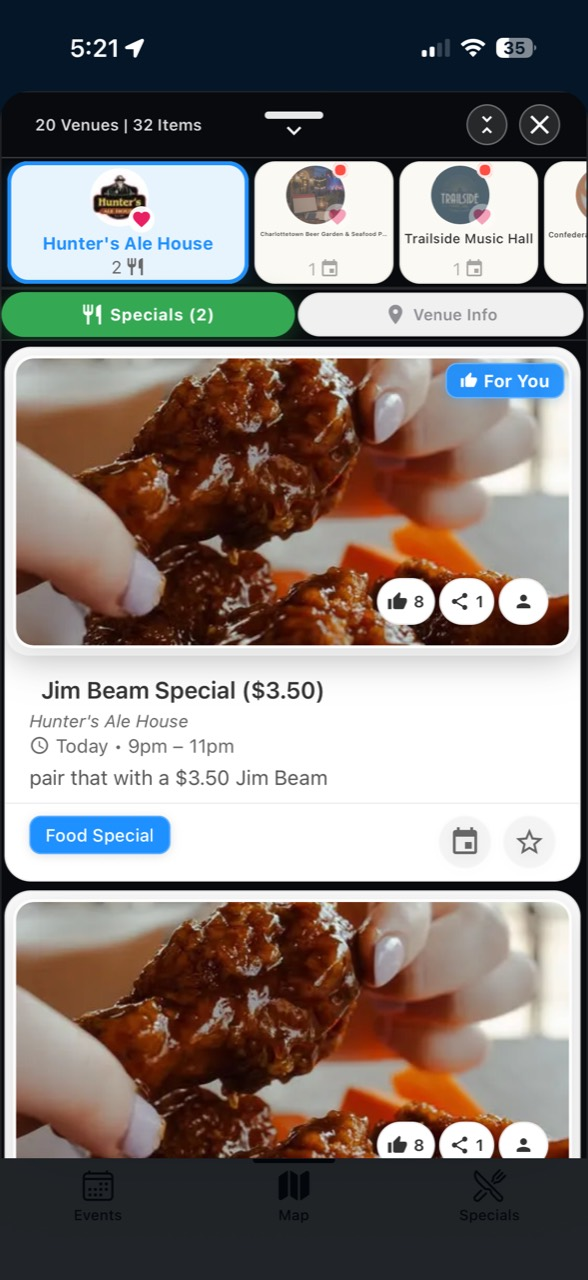
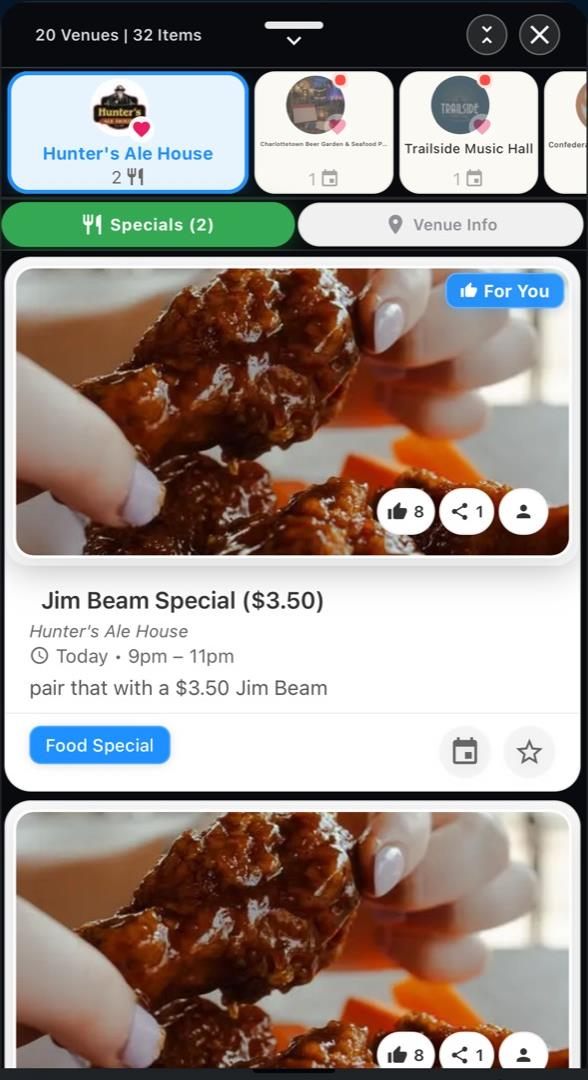
Align authentic tutorial scenes

diff --git a/components/tutorial/StaticTutorialScene.tsx b/components/tutorial/StaticTutorialScene.tsx
@@ -21,9 +21,6 @@ type SceneFocus = {
   y: number;
   width: number;
   height: number;
-  scale: number;
-  translateX: number;
-  translateY: number;
   label: string;
 };
 
@@ -41,37 +38,37 @@ type SceneDefinition = {
 const SCENES: Record<TutorialStaticSceneId, SceneDefinition> = {
   'map-overview': {
     source: CLUSTER_MAP,
-    focus: { x: 0.5, y: 0.48, width: 0.86, height: 0.7, scale: 1, translateX: 0, translateY: 0, label: 'MAP EXAMPLE' },
+    focus: { x: 0.5, y: 0.5, width: 0.86, height: 0.68, label: 'MAP EXAMPLE' },
     accessibilityLabel: 'Example of the GathR map with nearby events and specials',
   },
   'cluster-tree': {
     source: CLUSTER_MAP,
-    focus: { x: 0.53, y: 0.51, width: 0.22, height: 0.17, scale: 1.16, translateX: -0.02, translateY: -0.03, label: 'NEARBY CLUSTER' },
+    focus: { x: 0.48, y: 0.44, width: 0.25, height: 0.18, label: 'NEARBY CLUSTER' },
     accessibilityLabel: 'Example GathR map cluster marker',
   },
   'cluster-summary': {
     source: CLUSTER_MAP,
-    focus: { x: 0.53, y: 0.54, width: 0.43, height: 0.3, scale: 1.22, translateX: -0.02, translateY: -0.03, label: 'AT-A-GLANCE SUMMARY' },
+    focus: { x: 0.5, y: 0.47, width: 0.43, height: 0.28, label: 'AT-A-GLANCE SUMMARY' },
     accessibilityLabel: 'Example cluster counts and category markers',
   },
   'map-controls': {
     source: CLUSTER_MAP,
-    focus: { x: 0.5, y: 0.17, width: 0.87, height: 0.17, scale: 1.04, translateX: 0, translateY: 0.08, label: 'QUICK CONTROLS' },
+    focus: { x: 0.5, y: 0.14, width: 0.87, height: 0.16, label: 'QUICK CONTROLS' },
     accessibilityLabel: 'Example GathR map controls',
   },
   'callout-venues': {
     source: CLUSTER_CALLOUT,
-    focus: { x: 0.5, y: 0.19, width: 0.94, height: 0.16, scale: 1.02, translateX: 0, translateY: 0.04, label: 'VENUE RAIL' },
+    focus: { x: 0.5, y: 0.13, width: 0.94, height: 0.2, label: 'VENUE RAIL' },
     accessibilityLabel: 'Example GathR cluster callout with nearby venues',
   },
   'callout-tabs': {
     source: CLUSTER_CALLOUT,
-    focus: { x: 0.5, y: 0.32, width: 0.94, height: 0.09, scale: 1.08, translateX: 0, translateY: 0.02, label: 'EVENTS AND SPECIALS' },
+    focus: { x: 0.5, y: 0.21, width: 0.94, height: 0.09, label: 'EVENTS AND SPECIALS' },
     accessibilityLabel: 'Example callout tabs for events and specials',
   },
   'callout-card': {
     source: CLUSTER_CALLOUT,
-    focus: { x: 0.5, y: 0.6, width: 0.95, height: 0.38, scale: 1.1, translateX: 0, translateY: -0.09, label: 'LISTING DETAILS' },
+    focus: { x: 0.5, y: 0.5, width: 0.95, height: 0.5, label: 'LISTING DETAILS' },
     accessibilityLabel: 'Example GathR listing card with time, place, and actions',
   },
 };
@@ -86,9 +83,6 @@ export const StaticTutorialScene: React.FC<Props> = ({ scene }) => {
   const definition = SCENES[scene];
   const [frame, setFrame] = useState({ width: 0, height: 0 });
   const imageOpacity = useRef(new Animated.Value(0)).current;
-  const imageScale = useRef(new Animated.Value(1)).current;
-  const imageTranslateX = useRef(new Animated.Value(0)).current;
-  const imageTranslateY = useRef(new Animated.Value(0)).current;
   const ringPulse = useRef(new Animated.Value(1)).current;
 
   const frameInsets = useMemo(() => ({
@@ -99,13 +93,8 @@ export const StaticTutorialScene: React.FC<Props> = ({ scene }) => {
 
   useEffect(() => {
     imageOpacity.setValue(0);
-    Animated.parallel([
-      Animated.timing(imageOpacity, { toValue: 1, duration: 220, useNativeDriver: true }),
-      Animated.spring(imageScale, { toValue: definition.focus.scale, damping: 18, stiffness: 150, mass: 0.7, useNativeDriver: true }),
-      Animated.spring(imageTranslateX, { toValue: frame.width * definition.focus.translateX, damping: 18, stiffness: 150, mass: 0.7, useNativeDriver: true }),
-      Animated.spring(imageTranslateY, { toValue: frame.height * definition.focus.translateY, damping: 18, stiffness: 150, mass: 0.7, useNativeDriver: true }),
-    ]).start();
-  }, [definition.focus.scale, definition.focus.translateX, definition.focus.translateY, frame.height, frame.width, imageOpacity, imageScale, imageTranslateX, imageTranslateY, scene]);
+    Animated.timing(imageOpacity, { toValue: 1, duration: 180, useNativeDriver: true }).start();
+  }, [imageOpacity, scene]);
 
   useEffect(() => {
     const loop = Animated.loop(Animated.sequence([
@@ -131,6 +120,7 @@ export const StaticTutorialScene: React.FC<Props> = ({ scene }) => {
   const focusHeight = frame.height * definition.focus.height;
   const focusLeft = frame.width * definition.focus.x - focusWidth / 2;
   const focusTop = frame.height * definition.focus.y - focusHeight / 2;
+  const labelInsideFocus = focusTop < 34;
 
   return (
     <View
@@ -162,11 +152,6 @@ export const StaticTutorialScene: React.FC<Props> = ({ scene }) => {
             styles.image,
             {
               opacity: imageOpacity,
-              transform: [
-                { translateX: imageTranslateX },
-                { translateY: imageTranslateY },
-                { scale: imageScale },
-              ],
             },
           ]}
         />
@@ -197,7 +182,7 @@ export const StaticTutorialScene: React.FC<Props> = ({ scene }) => {
               },
             ]}
           >
-            <View style={styles.focusLabel}>
+            <View style={[styles.focusLabel, labelInsideFocus && styles.focusLabelInside]}>
               <Text style={styles.focusLabelText}>{definition.focus.label}</Text>
             </View>
           </Animated.View>
@@ -228,6 +213,7 @@ const styles = StyleSheet.create({
     position: 'absolute', top: -29, left: 8, maxWidth: '88%', borderRadius: 10,
     backgroundColor: '#0B2235', borderWidth: 1, borderColor: 'rgba(255,255,255,0.5)', paddingHorizontal: 8, paddingVertical: 5,
   },
+  focusLabelInside: { top: 8 },
   focusLabelText: { color: '#FFFFFF', fontSize: 10, fontWeight: '900', letterSpacing: 0.8 },
   exampleBadge: {
     position: 'absolute', right: 12, bottom: 12, borderRadius: 12, backgroundColor: 'rgba(5, 24, 40, 0.88)',

diff --git a/components/tutorial/TutorialManager.tsx b/components/tutorial/TutorialManager.tsx
@@ -28,10 +28,10 @@ type LayoutTarget = {
 };
 
 /**
- * Every guided target below is a normal React Native control measured in its
- * own screen. Mapbox marker and native-callout geometry are deliberately not
- * part of this tour: they cannot provide the same dependable, cross-platform
- * target contract as the rest of the app.
+ * Every live guided target below is a normal React Native control measured in
+ * its own screen. The earlier map and callout lessons deliberately use
+ * authentic static captures, avoiding volatile Mapbox and native-callout
+ * geometry while preserving the real visual language of those surfaces.
  */
 const LAYOUT_TARGETS: Partial<Record<string, LayoutTarget>> = {
   'filter-pills': {

diff --git a/config/tutorialSteps.ts b/config/tutorialSteps.ts
@@ -47,8 +47,8 @@ export const TUTORIAL_STEPS: TutorialStep[] = [
     title: 'Keep your plans in view',
     content: 'The controls across the top make it easy to browse dates, events, and specials without losing your place.',
     staticScene: 'map-controls',
-    placement: 'top',
-    sheetPosition: 'top',
+    placement: 'bottom',
+    sheetPosition: 'bottom',
     action: 'next',
   },
   {
